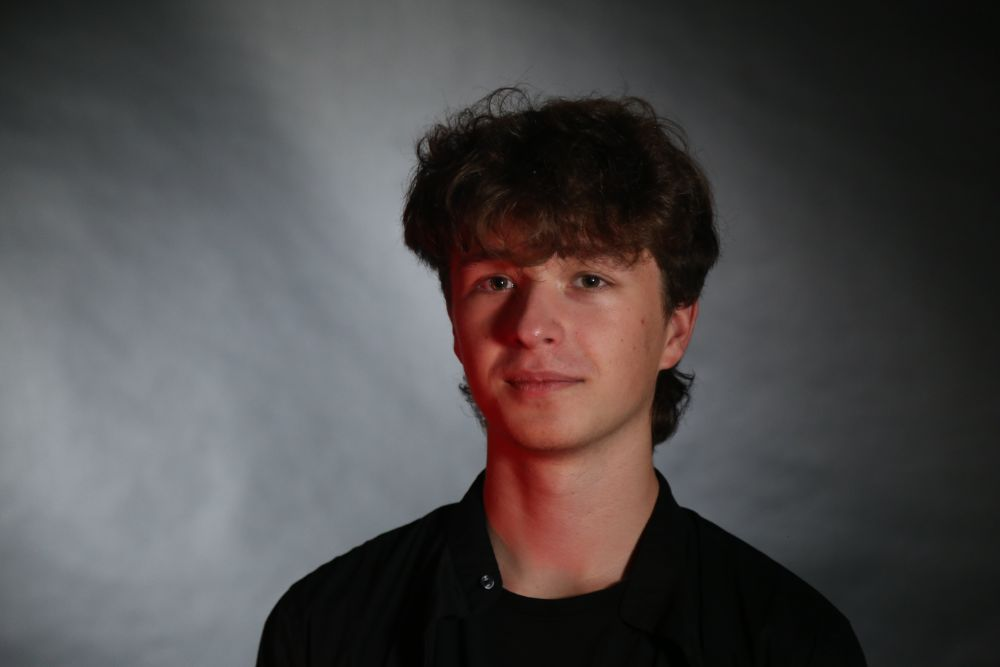
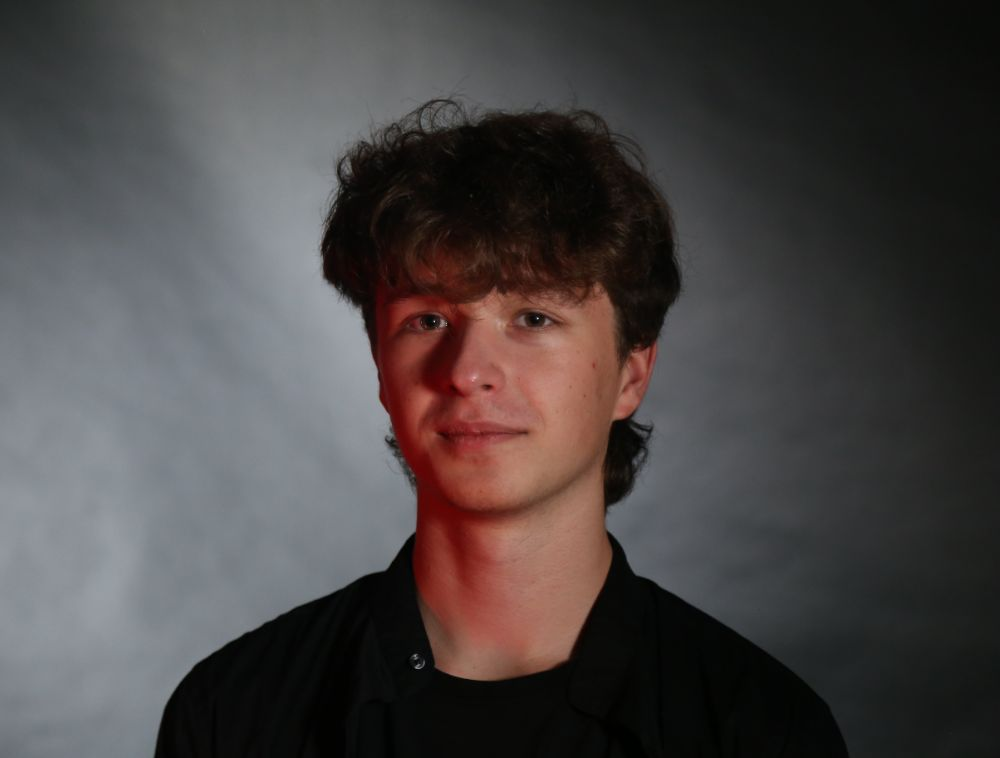
fix(contact): uncropped centred portrait, full name under title (#88)
* fix(contact): uncropped centred portrait, full name under title

Agent: Claude Code (claude-opus-5-5)

* docs: readme note for #88

Agent: Claude Code (claude-opus-5-5)

---------

diff --git a/src/components/ContactDrawer.css b/src/components/ContactDrawer.css
@@ -33,5 +33,6 @@
 .drawer__actions a { font-size: 18px; padding: 0; }
 .drawer__actions button:hover, .drawer__actions a:hover { background: var(--cream); color: var(--ink); }
 
-.drawer__photo { flex: none; margin: 0 10px 10px 0; aspect-ratio: 4 / 3; border: 1px solid var(--cream); box-shadow: 10px 10px 0 var(--accent); overflow: hidden; }
-.drawer__photo img { display: block; width: 100%; height: 100%; object-fit: cover; object-position: 56% 50%; }
+.drawer__photo { flex: none; margin: 0 10px 10px 0; border: 1px solid var(--cream); box-shadow: 10px 10px 0 var(--accent); overflow: hidden; }
+.drawer__photo img { display: block; width: 100%; height: auto; }
+.drawer__fullname { margin: 0; font-size: clamp(18px, 1.6vw, 22px); font-weight: 600; }

diff --git a/src/components/ContactDrawer.tsx b/src/components/ContactDrawer.tsx
@@ -62,6 +62,7 @@ export function ContactDrawer({ open, onClose }: { open: boolean; onClose: () =>
         <header className="drawer__head">
           <p className="drawer__kicker">{t.contact.kicker}</p>
           <h2 id="drawer-title" className="drawer__title display">{t.contact.title}</h2>
+          <p className="drawer__fullname">{t.profile.fullName}</p>
           <button className="drawer__close" onClick={onClose} aria-label={t.contact.close}>×</button>
         </header>
         <p className="drawer__note">{t.contact.note}</p>

diff --git a/docs/features/hero.md b/docs/features/hero.md
@@ -27,5 +27,5 @@ The red intro types `intro.nickname` ("Oskrrr") and morphs into `profile.name`. 
 Below 760px the up arrow drops under the header row (Contact / theme / language) so it never covers those toggles. Long panels scroll with ~96px bottom padding, so their content clears the bottom arrows once scrolled.
 
 ## Contact portrait
-`public/assets/photos/portrait.jpg` (`portraitPhoto` in data.ts) is shown under the contact rows with a red offset shadow (currently IMG_0084). Swap the file to change it, and adjust `object-position` in ContactDrawer.css so the face lands in the middle of the 4:3 frame.
+`public/assets/photos/portrait.jpg` (`portraitPhoto` in data.ts) is shown under the contact rows with a red offset shadow (currently IMG_0084). It is shown uncropped at its own aspect ratio, so centre the face in the exported file itself (IMG_0084 has 12% trimmed off the left).
 It's exported through a browser canvas (orientation applied, 1000px long side, JPEG 80%) so **no EXIF/XMP metadata** — camera, lens, timestamps, GPS — ships with it. Re-export any replacement the same way rather than copying the camera file.

diff --git a/.readme-changes/88.md b/.readme-changes/88.md
@@ -1,0 +1,5 @@
+---
+agent: Claude Code
+model: claude-opus-5-5
+---
+Contact drawer shows the full name and an uncropped, centred portrait.
